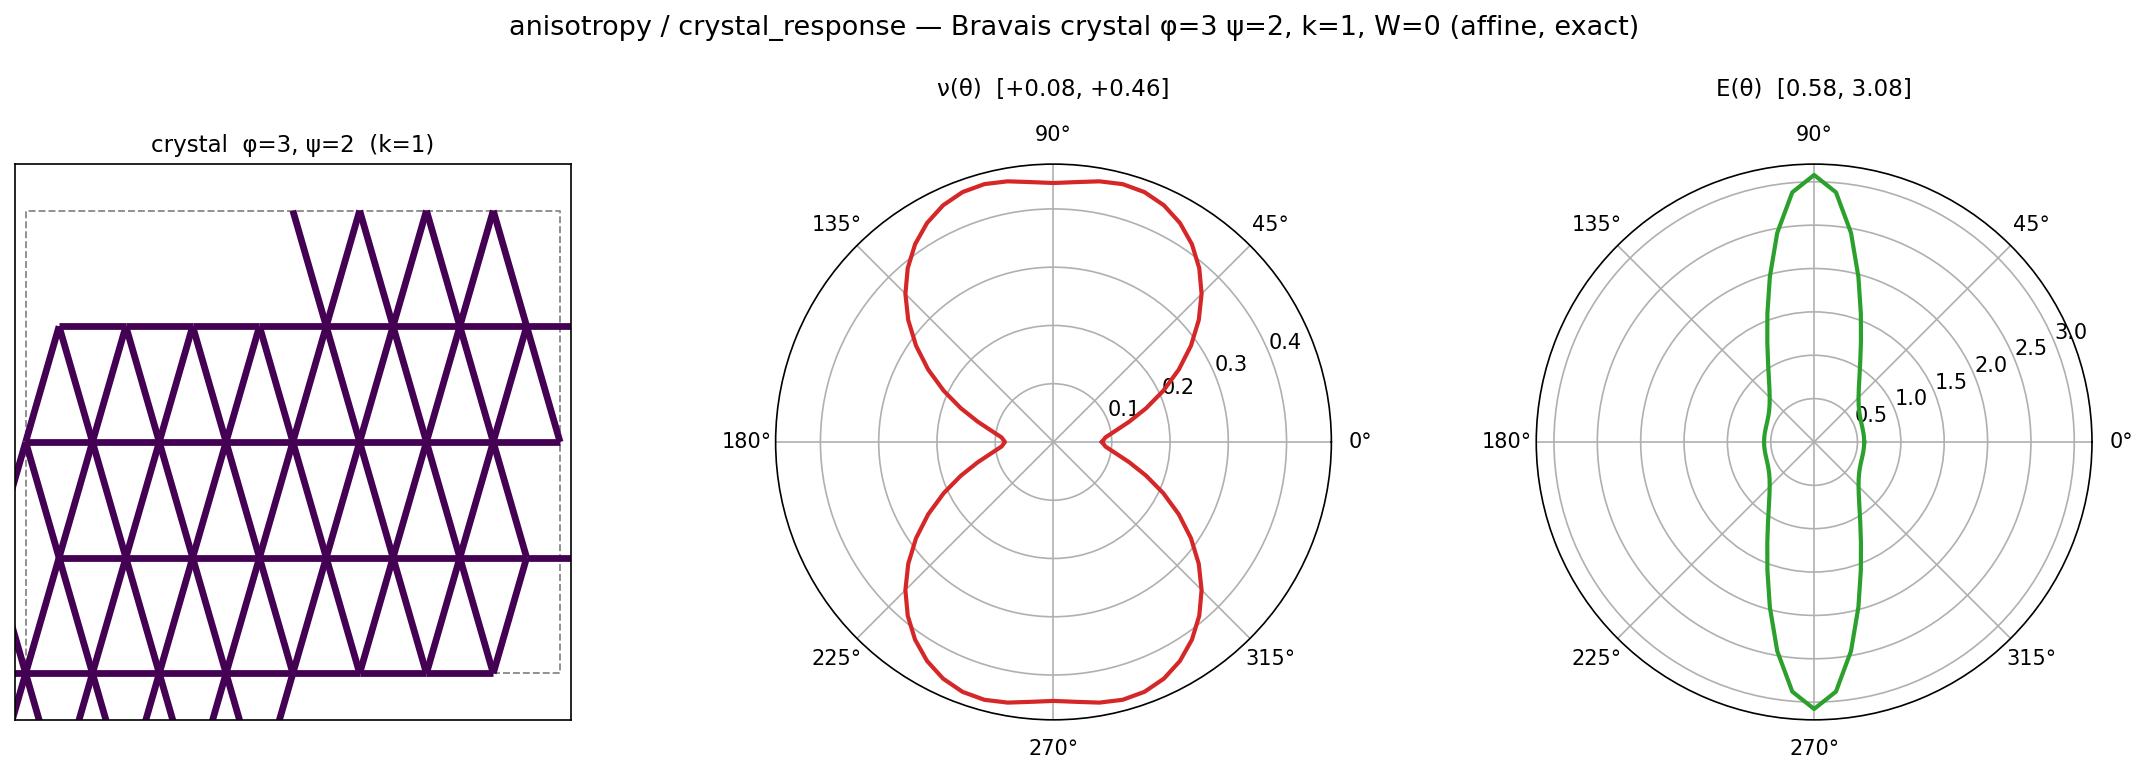
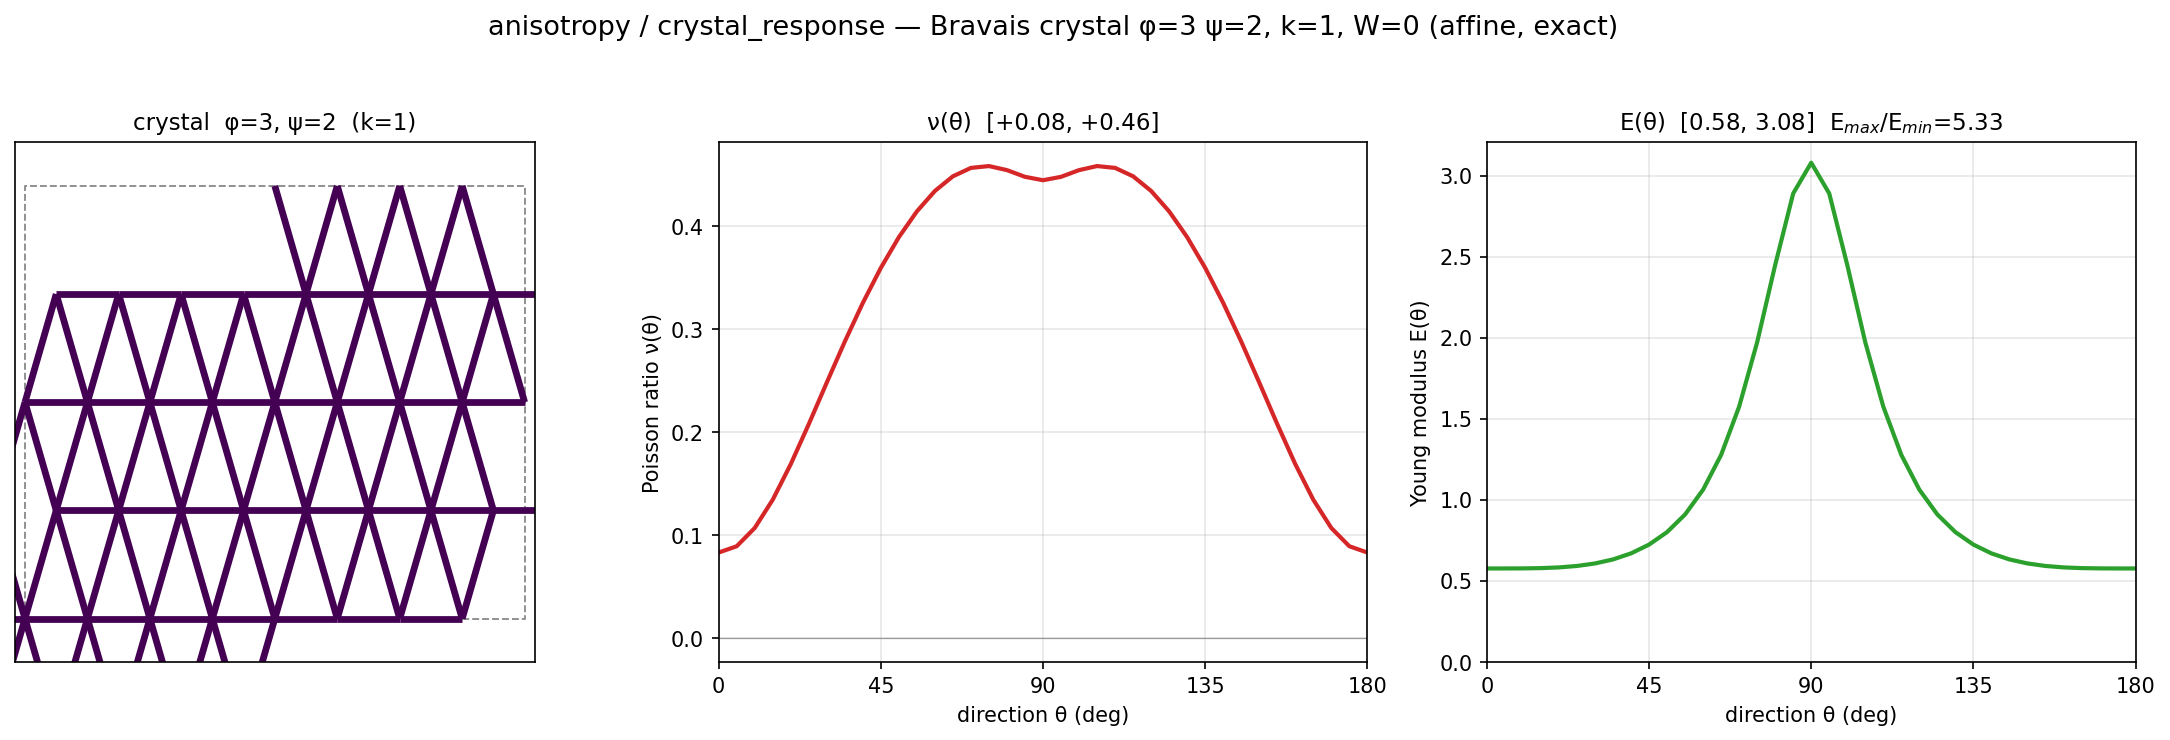
crystal_response: Cartesian nu(theta)/E(theta) line plots instead of polar

diff --git a/Phase 3/verifications/anisotropy/crystal_response.py b/Phase 3/verifications/anisotropy/crystal_response.py
@@ -99,19 +99,26 @@ def main():
                 ['theta_deg', 'nu_theta', 'E_theta'],
                 [(f'{np.degrees(t):.1f}', f'{nu_th[i]:.4f}', f'{E_th[i]:.4f}') for i, t in enumerate(th)])
 
-    # --- plot: network + nu(theta) polar + E(theta) polar ---
+    # --- plot: network + nu(theta) line + E(theta) line (Cartesian) ---
+    deg = np.degrees(th)
     fig = plt.figure(figsize=(15, 5))
     a0 = fig.add_subplot(1, 3, 1)
     C.draw_network(a0, geo, geo['bond_k'], cmap='viridis', lw_scale=3.0)
     a0.set_title(f'crystal  φ={PHI:g}, ψ={PSI:g}  (k=1)', fontsize=11)
 
-    th2 = np.concatenate([th, th + np.pi])
-    a1 = fig.add_subplot(1, 3, 2, projection='polar')
-    a1.plot(th2, np.concatenate([nu_th, nu_th]), color='#d62728', lw=2)
-    a1.set_title(f'ν(θ)  [{nu_th.min():+.2f}, {nu_th.max():+.2f}]', fontsize=11, pad=14)
-    a2 = fig.add_subplot(1, 3, 3, projection='polar')
-    a2.plot(th2, np.concatenate([E_th, E_th]), color='#2ca02c', lw=2)
-    a2.set_title(f'E(θ)  [{E_th.min():.2f}, {E_th.max():.2f}]', fontsize=11, pad=14)
+    a1 = fig.add_subplot(1, 3, 2)
+    a1.plot(deg, nu_th, color='#d62728', lw=2)
+    a1.axhline(0, color='0.6', lw=.6)
+    a1.set_xlabel('direction θ (deg)'); a1.set_ylabel('Poisson ratio ν(θ)')
+    a1.set_xlim(0, 180); a1.set_xticks(range(0, 181, 45)); a1.grid(alpha=.3)
+    a1.set_title(f'ν(θ)  [{nu_th.min():+.2f}, {nu_th.max():+.2f}]', fontsize=11)
+
+    a2 = fig.add_subplot(1, 3, 3)
+    a2.plot(deg, E_th, color='#2ca02c', lw=2)
+    a2.set_xlabel('direction θ (deg)'); a2.set_ylabel('Young modulus E(θ)')
+    a2.set_xlim(0, 180); a2.set_xticks(range(0, 181, 45)); a2.set_ylim(bottom=0); a2.grid(alpha=.3)
+    a2.set_title(f'E(θ)  [{E_th.min():.2f}, {E_th.max():.2f}]  E$_{{max}}$/E$_{{min}}$='
+                 f'{E_th.max()/E_th.min():.2f}', fontsize=11)
 
     fig.suptitle(f'{CASE} / crystal_response — Bravais crystal φ={PHI:g} ψ={PSI:g}, k=1, W=0 (affine, exact)',
                  fontsize=13)
